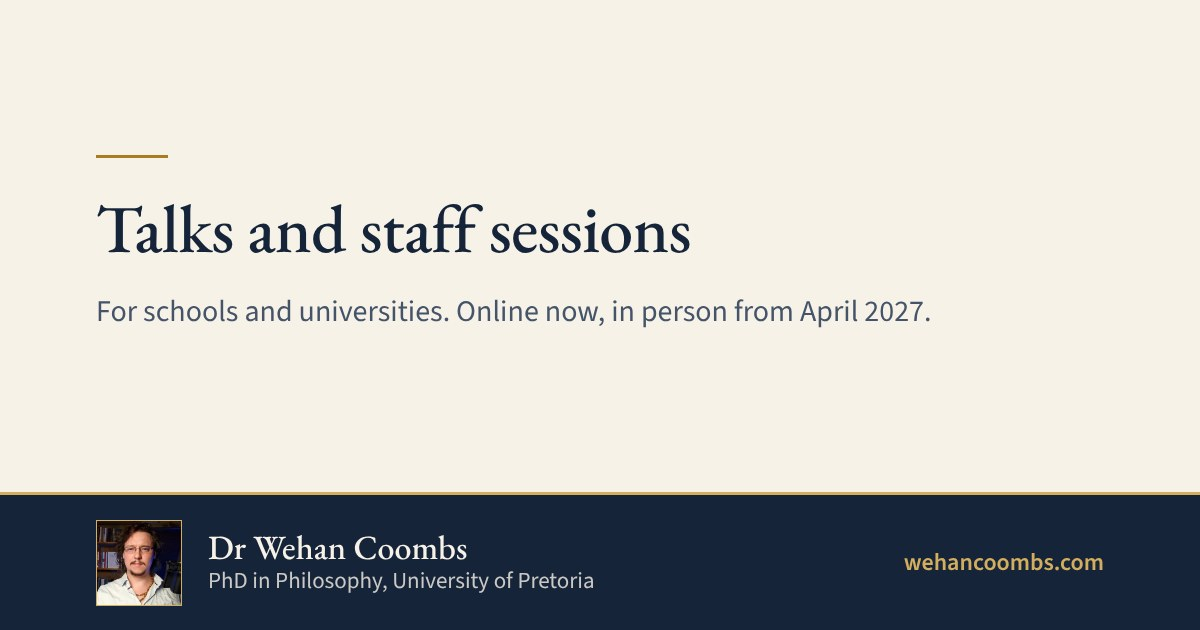
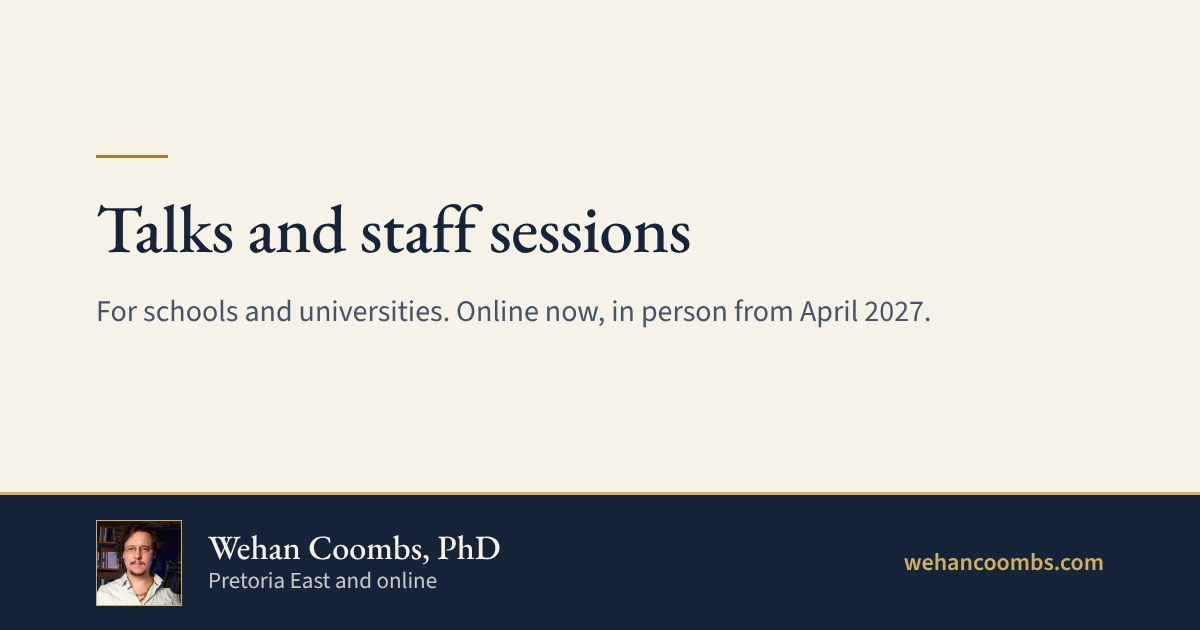
Feedback fixes on the test copy: offer-first headline, laptop sizing, name with PhD, talks fees from, centred arrows (not published)
Claude-Session: https://claude.ai/code/session_01RRGvpyg4jK2XDJuLnmibXz

Changed region(s): [[0.1542, 0.8444, 0.4933, 0.9349]]

diff --git a/talks/index.html b/talks/index.html
@@ -4,18 +4,18 @@
 <meta charset="utf-8">
 <meta name="viewport" content="width=device-width, initial-scale=1">
 <meta name="color-scheme" content="light">
-<title>Talks and staff sessions: Dr Wehan Coombs</title>
-<meta name="description" content="Talks and staff sessions for schools and universities with Dr Wehan Coombs: teaching and assessment in the age of AI, curriculum design, and Teach by Learning. Online now, in person from April 2027.">
-<meta property="og:title" content="Talks and staff sessions with Dr Wehan Coombs">
+<title>Talks and staff sessions: Wehan Coombs, PhD</title>
+<meta name="description" content="Talks and staff sessions for schools and universities with Wehan Coombs, PhD: teaching and assessment in the age of AI, curriculum design, and Teach by Learning. Online now, in person from April 2027.">
+<meta property="og:title" content="Talks and staff sessions with Wehan Coombs, PhD">
 <meta property="og:description" content="For schools and universities: teaching and assessment in the age of AI, curriculum design, and Teach by Learning. Online now, in person from April 2027.">
 <meta property="og:image" content="https://wehancoombs.com/share-talks.jpg">
 <meta property="og:image:width" content="1200">
 <meta property="og:image:height" content="630">
-<meta property="og:image:alt" content="Talks and staff sessions with Dr Wehan Coombs">
+<meta property="og:image:alt" content="Talks and staff sessions with Wehan Coombs, PhD">
 <meta name="twitter:card" content="summary_large_image">
 <meta property="og:url" content="https://wehancoombs.com/talks/">
 <meta property="og:type" content="website">
-<meta property="og:site_name" content="Dr Wehan Coombs">
+<meta property="og:site_name" content="Wehan Coombs, PhD">
 <link rel="canonical" href="https://wehancoombs.com/talks/">
 <meta name="theme-color" content="#F7F2E8">
 <script>
@@ -30,14 +30,14 @@
 <link rel="preconnect" href="https://fonts.googleapis.com">
 <link rel="preconnect" href="https://fonts.gstatic.com" crossorigin>
 <link href="https://fonts.googleapis.com/css2?family=EB+Garamond:ital,wght@0,400;0,500;1,400&family=Source+Sans+3:wght@400;600&display=swap" rel="stylesheet">
-<link rel="stylesheet" href="../site.css?v=18">
+<link rel="stylesheet" href="../site.css?v=19">
 </head>
 <body>
 <a class="skip" href="#sessions">Skip to the sessions</a>
 
 <header class="top">
   <div class="wrap">
-    <a class="name" href="#top">Dr Wehan Coombs</a>
+    <a class="name" href="#top">Wehan Coombs, PhD</a>
     <div class="top-right">
       <nav aria-label="Sections">
         <a href="../">Coaching</a>
@@ -55,7 +55,7 @@
     <div class="wrap">
       <h1>Keeping real thinking at the centre of teaching.</h1>
       <p class="lede">Talks and staff sessions for schools and universities. Online now, in person from April 2027.</p>
-      <p class="rates">A talk R3,500. A half-day workshop R6,500.</p>
+      <p class="rates">A talk from R3,500. A half-day workshop from R6,500.</p>
       <div class="act">
         <a class="btn" href="https://calendar.app.google/LnQHr42n4ykTqa4ZA" target="_blank" rel="noopener" data-track="book-hero">Book a free consultation</a>
         <p class="note">20 minutes on Google Meet. No charge, no obligation.</p>
@@ -66,8 +66,8 @@
   <section class="who" aria-label="About the speaker, in short">
     <div class="wrap">
       <div class="who-me">
-        <img src="../headshot.jpg" width="72" height="72" alt="Dr Wehan Coombs">
-        <p><b>Dr Wehan Coombs</b><span>PhD in Philosophy, University of Pretoria</span><span>Postdoctoral Research Fellow, University of Johannesburg, 2024 to 2026</span></p>
+        <img src="../headshot.jpg" width="72" height="72" alt="Wehan Coombs, PhD">
+        <p><b>Wehan Coombs</b><span>PhD in Philosophy, University of Pretoria</span><span>Postdoctoral Research Fellow, University of Johannesburg, 2024 to 2026</span></p>
       </div>
       <ul class="medals">
         <li>
@@ -111,13 +111,13 @@
             <span class="ico" aria-hidden="true"><svg viewBox="0 0 24 24"><rect x="7" y="7" width="10" height="10" rx="1.2"/><path d="M10 3.5V7M14 3.5V7M10 17v3.5M14 17v3.5M3.5 10H7M3.5 14H7M17 10h3.5M17 14h3.5"/></svg></span>
             <h3>Keeping real thinking at the centre</h3>
             <p>Teaching and assessment in the age of AI.</p>
-            <span class="fee">Talk R3,500<br>Half-day workshop R6,500</span>
+            <span class="fee">Talk from R3,500<br>Half-day workshop from R6,500</span>
           </li>
           <li>
             <span class="ico" aria-hidden="true"><svg viewBox="0 0 24 24"><circle cx="12" cy="12" r="8.4"/><path d="M3.6 12h16.8M12 3.6c2.6 2.4 3.8 5.2 3.8 8.4s-1.2 6-3.8 8.4c-2.6-2.4-3.8-5.2-3.8-8.4S9.4 6 12 3.6z"/></svg></span>
             <h3>Whose knowledge?</h3>
             <p>Designing a curriculum that is both local and global.</p>
-            <span class="fee">Talk R3,500<br>Half-day workshop R6,500</span>
+            <span class="fee">Talk from R3,500<br>Half-day workshop from R6,500</span>
           </li>
           <li>
             <span class="ico" aria-hidden="true"><svg viewBox="0 0 24 24"><path d="M12 3.2c.5 3.9 1.9 5.3 5.8 5.8-3.9.5-5.3 1.9-5.8 5.8-.5-3.9-1.9-5.3-5.8-5.8 3.9-.5 5.3-1.9 5.8-5.8z"/><path d="M18.2 15.2c.2 1.7.9 2.4 2.6 2.6-1.7.2-2.4.9-2.6 2.6-.2-1.7-.9-2.4-2.6-2.6 1.7-.2 2.4-.9 2.6-2.6z"/></svg></span>
@@ -143,7 +143,6 @@
     <div class="wrap rail-nav">
       <button type="button" data-rail="-1" aria-label="Earlier comment"><svg viewBox="0 0 24 24" aria-hidden="true"><path d="M15 5l-7 7 7 7"/></svg></button>
       <button type="button" data-rail="1" aria-label="Next comment"><svg viewBox="0 0 24 24" aria-hidden="true"><path d="M9 5l7 7-7 7"/></svg></button>
-      <span id="rail-count" aria-live="polite">1 of 4</span>
     </div>
   </section>
 
@@ -179,7 +178,7 @@
             <p>I teach because I have seen what happens when students realise they can think for themselves, and that transformation carries into the rest of their lives.</p>
           </div>
           <div class="stage">
-            <img class="me" src="../assets/wehan-drawing.webp" width="320" height="451" loading="lazy" decoding="async" alt="A line drawing of Dr Wehan Coombs, pointing at the links beside him">
+            <img class="me" src="../assets/wehan-drawing.webp" width="320" height="451" loading="lazy" decoding="async" alt="A line drawing of Wehan Coombs, pointing at the links beside him">
             <ul class="links">
               <li><a href="https://youtu.be/3yu_p7YIFhc" target="_blank" rel="noopener" data-track="watch-fil110">Watch a first-year lecture</a></li>
               <li><a href="https://youtu.be/A2ta75nJWTI" target="_blank" rel="noopener" data-track="watch-fil710">Watch an honours seminar</a></li>
@@ -208,7 +207,7 @@
 </main>
 
 <footer class="end">
-  <div class="wrap"><span class="motto-wrap"><button class="motto" type="button" aria-describedby="motto-tip" data-track="motto"><em>Docendo discimus.</em></button><span id="motto-tip" role="tooltip"><em>Docendo discimus</em>: by teaching, we learn. After Seneca, <em>Letters to Lucilius</em>, 7.8.</span></span> <a href="../">Dr Wehan Coombs · wehancoombs.com</a></div>
+  <div class="wrap"><span class="motto-wrap"><button class="motto" type="button" aria-describedby="motto-tip" data-track="motto"><em>Docendo discimus.</em></button><span id="motto-tip" role="tooltip"><em>Docendo discimus</em>: by teaching, we learn. After Seneca, <em>Letters to Lucilius</em>, 7.8.</span></span> <a href="../">Wehan Coombs, PhD · wehancoombs.com</a></div>
 </footer>
 
 <script>
@@ -220,18 +219,15 @@
       var card = rail.querySelector('.card'), step = card ? card.getBoundingClientRect().width + 16 : 300;
       rail.scrollBy({ left: step * Number(b.getAttribute('data-rail')), behavior: 'smooth' });
     });
-    // "3 of 9": which comment is in view.
-    var count = document.getElementById('rail-count'), cards = rail.querySelectorAll('.card'), tick = null;
-    rail.addEventListener('scroll', function () {
-      if (tick) return;
-      tick = setTimeout(function () {
-        tick = null;
-        var step = cards[0].getBoundingClientRect().width + 16;
-        var end = rail.scrollLeft + rail.clientWidth >= rail.scrollWidth - 4;
-        var i = end ? cards.length : Math.min(cards.length, Math.round(rail.scrollLeft / step) + 1);
-        if (count) count.textContent = i + ' of ' + cards.length;
-      }, 80);
-    }, { passive: true });
+    // The arrows grey out at either end of the row.
+    var prev = document.querySelector('[data-rail="-1"]'), next = document.querySelector('[data-rail="1"]'), tick = null;
+    function ends() {
+      tick = null;
+      if (prev) prev.disabled = rail.scrollLeft <= 4;
+      if (next) next.disabled = rail.scrollLeft + rail.clientWidth >= rail.scrollWidth - 4;
+    }
+    rail.addEventListener('scroll', function () { if (!tick) tick = setTimeout(ends, 80); }, { passive: true });
+    ends();
   })();
   // The gold rings draw themselves once, when they first come into view. Without this script they are simply drawn.
   (function () {

diff --git a/index.html b/index.html
@@ -4,18 +4,18 @@
 <meta charset="utf-8">
 <meta name="viewport" content="width=device-width, initial-scale=1">
 <meta name="color-scheme" content="light">
-<title>Dr Wehan Coombs: English and writing coaching, Pretoria East and online</title>
-<meta name="description" content="A Doctor of Philosophy for your essay, your exam or your thesis. One-to-one writing coaching, from high school to university. In person in Pretoria East, or online. From R400 an hour.">
-<meta property="og:title" content="A Doctor of Philosophy for your essay, your exam or your thesis.">
-<meta property="og:description" content="One-to-one writing coaching with Dr Wehan Coombs, from high school to university. In person in Pretoria East, or online. From R400 an hour.">
+<title>Wehan Coombs, PhD: English and writing coaching, Pretoria East and online</title>
+<meta name="description" content="One-to-one writing coaching, from high school to university. A Doctor of Philosophy for your essay, your exam or your thesis. In person in Pretoria East, or online. From R400 an hour.">
+<meta property="og:title" content="One-to-one writing coaching, from high school to university.">
+<meta property="og:description" content="One-to-one writing coaching with Wehan Coombs, PhD, from high school to university. In person in Pretoria East, or online. From R400 an hour.">
 <meta property="og:image" content="https://wehancoombs.com/share.jpg">
 <meta property="og:image:width" content="1200">
 <meta property="og:image:height" content="630">
-<meta property="og:image:alt" content="Dr Wehan Coombs: one-to-one writing coaching, Pretoria East and online">
+<meta property="og:image:alt" content="Wehan Coombs, PhD: one-to-one writing coaching, Pretoria East and online">
 <meta name="twitter:card" content="summary_large_image">
 <meta property="og:url" content="https://wehancoombs.com/">
 <meta property="og:type" content="website">
-<meta property="og:site_name" content="Dr Wehan Coombs">
+<meta property="og:site_name" content="Wehan Coombs, PhD">
 <link rel="canonical" href="https://wehancoombs.com/">
 <meta name="theme-color" content="#F7F2E8">
 <script>
@@ -30,12 +30,12 @@
 <link rel="preconnect" href="https://fonts.googleapis.com">
 <link rel="preconnect" href="https://fonts.gstatic.com" crossorigin>
 <link href="https://fonts.googleapis.com/css2?family=EB+Garamond:ital,wght@0,400;0,500;1,400&family=Source+Sans+3:wght@400;600&display=swap" rel="stylesheet">
-<link rel="stylesheet" href="site.css?v=18">
+<link rel="stylesheet" href="site.css?v=19">
 <script type="application/ld+json">
 {
  "@context": "https://schema.org",
  "@type": "ProfessionalService",
- "name": "Dr Wehan Coombs: English and writing coaching",
+ "name": "Wehan Coombs, PhD: English and writing coaching",
  "url": "https://wehancoombs.com/",
  "image": "https://wehancoombs.com/share.jpg",
  "description": "One-to-one English and writing coaching, from high school to university. In person in Pretoria East, or online.",
@@ -58,8 +58,8 @@
  },
  "founder": {
   "@type": "Person",
-  "name": "Dr Wehan Coombs",
-  "honorificPrefix": "Dr",
+  "name": "Wehan Coombs",
+  "honorificSuffix": "PhD",
   "jobTitle": "Writing coach",
   "alumniOf": "University of Pretoria"
  }
@@ -71,7 +71,7 @@
 
 <header class="top">
   <div class="wrap">
-    <a class="name" href="#top">Dr Wehan Coombs</a>
+    <a class="name" href="#top">Wehan Coombs, PhD</a>
     <div class="top-right">
       <nav aria-label="Sections">
         <a href="#coaching">Coaching</a>
@@ -87,8 +87,8 @@
 
   <section class="hero">
     <div class="wrap">
-      <h1>A Doctor of Philosophy for your essay, your exam or your thesis.</h1>
-      <p class="lede">One-to-one writing coaching, from high school to university. In person in Pretoria East, or online.</p>
+      <h1>One-to-one writing coaching, from high school to university.</h1>
+      <p class="lede">A Doctor of Philosophy for your essay, your exam or your thesis. In person in Pretoria East, or online.</p>
       <p class="rates">School English R400 an hour. University work R500 an hour.</p>
       <div class="act">
         <a class="btn" href="https://calendar.app.google/LnQHr42n4ykTqa4ZA" target="_blank" rel="noopener" data-track="book-hero">Book a free consultation</a>
@@ -100,8 +100,8 @@
   <section class="who" aria-label="About your coach, in short">
     <div class="wrap">
       <div class="who-me">
-        <img src="headshot.jpg" width="72" height="72" alt="Dr Wehan Coombs">
-        <p><b>Dr Wehan Coombs</b><span>PhD in Philosophy, University of Pretoria</span><span>BA in English Literature and Philosophy</span></p>
+        <img src="headshot.jpg" width="72" height="72" alt="Wehan Coombs, PhD">
+        <p><b>Wehan Coombs</b><span>PhD in Philosophy, University of Pretoria</span><span>BA in English Literature and Philosophy</span></p>
       </div>
       <ul class="medals">
         <li>
@@ -181,7 +181,6 @@
     <div class="wrap rail-nav">
       <button type="button" data-rail="-1" aria-label="Earlier comment"><svg viewBox="0 0 24 24" aria-hidden="true"><path d="M15 5l-7 7 7 7"/></svg></button>
       <button type="button" data-rail="1" aria-label="Next comment"><svg viewBox="0 0 24 24" aria-hidden="true"><path d="M9 5l7 7-7 7"/></svg></button>
-      <span id="rail-count" aria-live="polite">1 of 7</span>
     </div>
   </section>
 
@@ -217,7 +216,7 @@
             <p>I teach because I have seen what happens when students realise they can think for themselves, and that transformation carries into the rest of their lives.</p>
           </div>
           <div class="stage">
-            <img class="me" src="assets/wehan-drawing.webp" width="320" height="451" loading="lazy" decoding="async" alt="A line drawing of Dr Wehan Coombs, pointing at the links beside him">
+            <img class="me" src="assets/wehan-drawing.webp" width="320" height="451" loading="lazy" decoding="async" alt="A line drawing of Wehan Coombs, pointing at the links beside him">
             <ul class="links">
               <li><a href="https://youtu.be/3yu_p7YIFhc" target="_blank" rel="noopener" data-track="watch-fil110">Watch me teach</a></li>
               <li><a href="https://drive.google.com/file/d/13XoJ5AYoRfWfu_iO7lNjWMQgzwqgOZsK/view" target="_blank" rel="noopener" data-track="evaluations">Student evaluations</a></li>
@@ -246,7 +245,7 @@
 </main>
 
 <footer class="end">
-  <div class="wrap"><span class="motto-wrap"><button class="motto" type="button" aria-describedby="motto-tip" data-track="motto"><em>Docendo discimus.</em></button><span id="motto-tip" role="tooltip"><em>Docendo discimus</em>: by teaching, we learn. After Seneca, <em>Letters to Lucilius</em>, 7.8.</span></span> <span>Dr Wehan Coombs · wehancoombs.com</span></div>
+  <div class="wrap"><span class="motto-wrap"><button class="motto" type="button" aria-describedby="motto-tip" data-track="motto"><em>Docendo discimus.</em></button><span id="motto-tip" role="tooltip"><em>Docendo discimus</em>: by teaching, we learn. After Seneca, <em>Letters to Lucilius</em>, 7.8.</span></span> <span>Wehan Coombs, PhD · wehancoombs.com</span></div>
 </footer>
 
 <script>
@@ -258,18 +257,15 @@
       var card = rail.querySelector('.card'), step = card ? card.getBoundingClientRect().width + 16 : 300;
       rail.scrollBy({ left: step * Number(b.getAttribute('data-rail')), behavior: 'smooth' });
     });
-    // "3 of 9": which comment is in view.
-    var count = document.getElementById('rail-count'), cards = rail.querySelectorAll('.card'), tick = null;
-    rail.addEventListener('scroll', function () {
-      if (tick) return;
-      tick = setTimeout(function () {
-        tick = null;
-        var step = cards[0].getBoundingClientRect().width + 16;
-        var end = rail.scrollLeft + rail.clientWidth >= rail.scrollWidth - 4;
-        var i = end ? cards.length : Math.min(cards.length, Math.round(rail.scrollLeft / step) + 1);
-        if (count) count.textContent = i + ' of ' + cards.length;
-      }, 80);
-    }, { passive: true });
+    // The arrows grey out at either end of the row.
+    var prev = document.querySelector('[data-rail="-1"]'), next = document.querySelector('[data-rail="1"]'), tick = null;
+    function ends() {
+      tick = null;
+      if (prev) prev.disabled = rail.scrollLeft <= 4;
+      if (next) next.disabled = rail.scrollLeft + rail.clientWidth >= rail.scrollWidth - 4;
+    }
+    rail.addEventListener('scroll', function () { if (!tick) tick = setTimeout(ends, 80); }, { passive: true });
+    ends();
   })();
   // The gold rings draw themselves once, when they first come into view. Without this script they are simply drawn.
   (function () {

diff --git a/site.css b/site.css
@@ -56,8 +56,8 @@ a:hover { text-decoration-color: var(--gold); }
 .top-right { display: flex; align-items: center; }
 
 /* ---------- Hero ---------- */
-.hero { padding: clamp(48px, 9vw, 112px) 0 clamp(40px, 6vw, 72px); }
-.hero h1 { font-size: clamp(2.75rem, 9.2vw, 6rem); line-height: 1; letter-spacing: -.022em; max-width: 13.5em; text-wrap: balance; }
+.hero { padding: clamp(40px, min(9vw, 9vh), 104px) 0 clamp(36px, min(6vw, 7vh), 72px); }
+.hero h1 { font-size: clamp(2.75rem, min(8.4vw, 10.5vh), 5rem); line-height: 1; letter-spacing: -.022em; max-width: 14em; text-wrap: balance; }
 .hero .lede { font-size: clamp(1.1875rem, 2.2vw, 1.4375rem); line-height: 1.5; max-width: 36em; margin: clamp(24px, 3.4vw, 40px) 0 0; }
 .hero .rates { font-family: var(--serif); font-size: clamp(1.25rem, 2.4vw, 1.5rem); line-height: 1.35; margin: 18px 0 0; }
 .hero .act { margin-top: clamp(28px, 3.6vw, 40px); display: flex; flex-wrap: wrap; align-items: center; gap: 14px 22px; }
@@ -136,11 +136,11 @@ a:hover { text-decoration-color: var(--gold); }
 .card .tag { position: absolute; right: 24px; top: 22px; margin: 0; font-family: var(--sans); font-style: normal; font-size: 1rem; line-height: 1.2; color: var(--navy-2); }
 .card footer { margin-top: auto; padding-top: 18px; }
 .card footer::before { content: ""; display: block; width: 36px; height: 1px; background: var(--gold); margin-bottom: 12px; }
-.rail-nav { display: flex; align-items: center; gap: 10px; margin-top: 4px; }
+.rail-nav { display: flex; align-items: center; justify-content: center; gap: 12px; margin-top: 10px; }
 .rail-nav button { width: 44px; height: 44px; border: 1px solid var(--navy); background: transparent; color: var(--navy); padding: 0; cursor: pointer; border-radius: 0; }
-.rail-nav button:hover { background: var(--navy); color: var(--cream); }
+.rail-nav button:hover:not(:disabled) { background: var(--navy); color: var(--cream); }
+.rail-nav button:disabled { opacity: .3; cursor: default; }
 .rail-nav svg { width: 20px; height: 20px; fill: none; stroke: currentColor; stroke-width: 1.6; display: block; margin: 0 auto; }
-.rail-nav span { font-family: var(--serif); font-size: 1.25rem; color: var(--navy); margin-left: 8px; }
 @media (prefers-reduced-motion: reduce) { .ring .arc { transition: none !important; } }
 
 /* How it works: a real sequence, so it is numbered */
@@ -227,5 +227,6 @@ footer.end .wrap { display: flex; flex-wrap: wrap; justify-content: space-betwee
 @media (max-width: 350px) {
   .name { font-size: 1.0625rem; }
   .btn.small { font-size: .8125rem; padding: 9px 9px; }
+  .hero h1 { font-size: 2.375rem; }
 }
 @media print { .top { position: static; } .btn { border: 1px solid #000; } }

diff --git a/404.html b/404.html
@@ -4,7 +4,7 @@
 <meta charset="utf-8">
 <meta name="viewport" content="width=device-width, initial-scale=1">
 <meta name="color-scheme" content="light">
-<title>Page not found: Dr Wehan Coombs</title>
+<title>Page not found: Wehan Coombs, PhD</title>
 <meta name="robots" content="noindex">
 <meta name="theme-color" content="#F7F2E8">
 <script>
@@ -17,12 +17,12 @@
 <link rel="preconnect" href="https://fonts.googleapis.com">
 <link rel="preconnect" href="https://fonts.gstatic.com" crossorigin>
 <link href="https://fonts.googleapis.com/css2?family=EB+Garamond:ital,wght@0,400;0,500;1,400&family=Source+Sans+3:wght@400;600&display=swap" rel="stylesheet">
-<link rel="stylesheet" href="/site.css?v=18">
+<link rel="stylesheet" href="/site.css?v=19">
 </head>
 <body>
 <header class="top">
   <div class="wrap">
-    <a class="name" href="/">Dr Wehan Coombs</a>
+    <a class="name" href="/">Wehan Coombs, PhD</a>
     <div class="top-right">
       <nav aria-label="Sections">
         <a href="/#coaching">Coaching</a>
@@ -47,7 +47,7 @@
 </main>
 
 <footer class="end">
-  <div class="wrap"><span class="motto-wrap"><button class="motto" type="button" aria-describedby="motto-tip" data-track="motto"><em>Docendo discimus.</em></button><span id="motto-tip" role="tooltip"><em>Docendo discimus</em>: by teaching, we learn. After Seneca, <em>Letters to Lucilius</em>, 7.8.</span></span> <a href="/">Dr Wehan Coombs · wehancoombs.com</a></div>
+  <div class="wrap"><span class="motto-wrap"><button class="motto" type="button" aria-describedby="motto-tip" data-track="motto"><em>Docendo discimus.</em></button><span id="motto-tip" role="tooltip"><em>Docendo discimus</em>: by teaching, we learn. After Seneca, <em>Letters to Lucilius</em>, 7.8.</span></span> <a href="/">Wehan Coombs, PhD · wehancoombs.com</a></div>
 </footer>
 
 <script>

diff --git a/PROGRESS.md b/PROGRESS.md
@@ -1123,3 +1123,15 @@ His call: the talks page felt visually confused, the coaching page is right, so 
 - The old site is kept whole on the branch `old-site` (commit ec6ec8d, the last live version of it). To put it back: make `main` equal to `old-site` again.
 - Gone from the live site with this: the four CV PDFs, the Macbeth sheet and the study-guide covers. Old links to them land on the not-found page, which points to the Full Resume.
 - Not done as part of publishing, and still his: rename the Google Calendar booking page to a free consultation; check the three school mentor quotes; tell the three academics they are quoted; decide on a WhatsApp button; confirm R500 for Other writing.
+
+## 2026-11-19 (19:10): fixes from the professional's feedback, on the test copy only (styles now `site.css?v=19`)
+
+Source: the Google Doc "Wehan Website Feedback" (17 points, with screenshots) plus two WhatsApp notes about the booking page. He marked which to fix. The live site is unchanged until he says "publish".
+
+- **Point 2, headline:** the home page now leads with what it is, "One-to-one writing coaching, from high school to university.", and the Doctor of Philosophy sentence is the line under it. Same two sentences as before, swapped. The search description and link preview follow.
+- **Points 3 and 6, laptops:** the headline and the space around it now also shrink with the height of the screen. On a 1536 by 740 laptop screen the headline is two lines and the navy strip shows at the bottom of the first screen. Largest headline size is 80 pixels, down from 96.
+- **Point 4, name:** "Dr Wehan Coombs" is now "Wehan Coombs, PhD" in the header, foot, page titles, link previews and the not-found page, so nobody reads a medical doctor. In the navy strip the name stands alone because "PhD in Philosophy" is the next line. "Dr Coombs" inside Prof Ruttkamp-Bloem's quotation is untouched.
+- **Point 5, prices:** coaching prices stay. Talks fees now read "from R3,500" and "from R6,500".
+- **Points 9 and 15, comment arrows:** the arrows sit in the middle under the cards, the "1 of 7" count is gone, and an arrow greys out at its end of the row.
+- **Suggested, not applied:** a line on why coaching and not only tutoring (8); clearer How it works steps on both pages (10, 16); "Talks and workshops" (11).
+- **No change:** separate "What I offer" section (12, covered by 2 and 3); old portfolio (13); About position (14).
